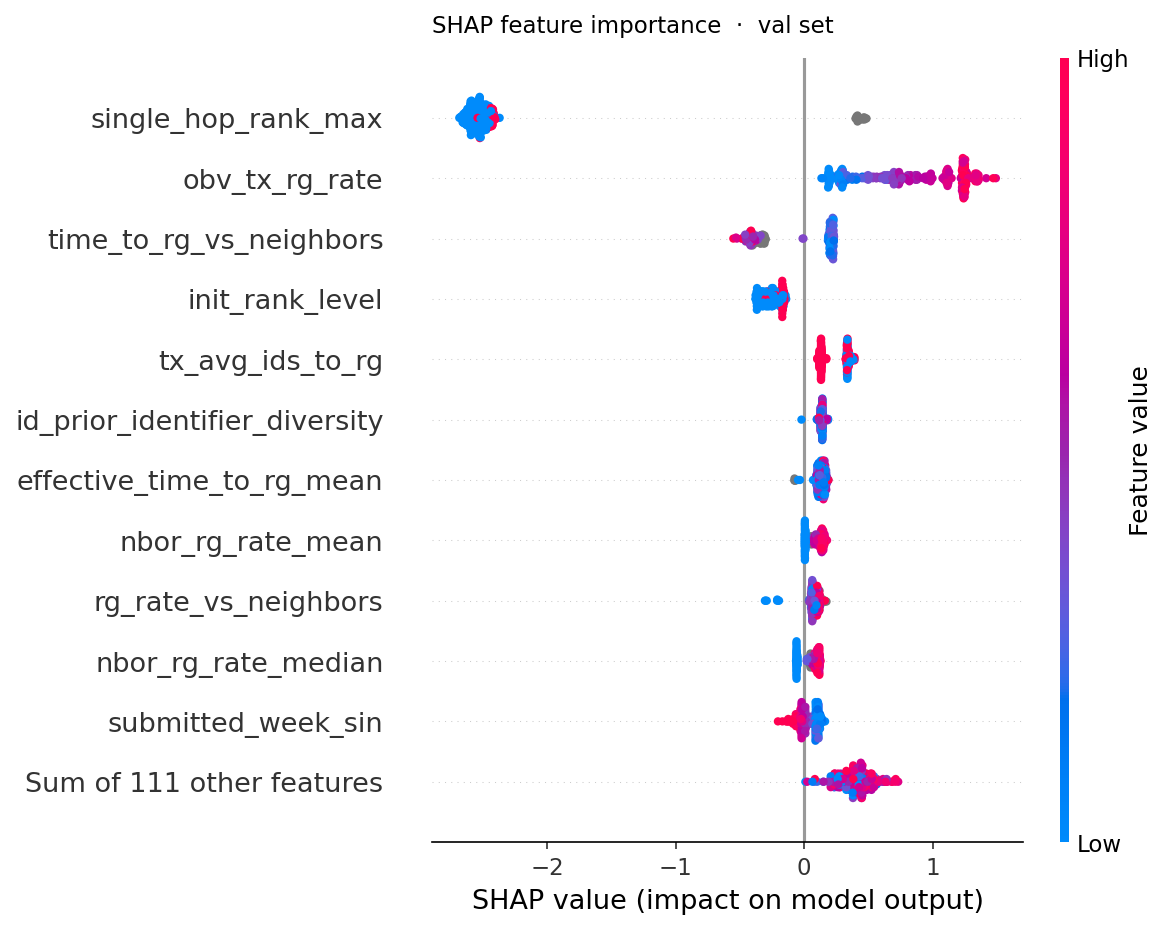
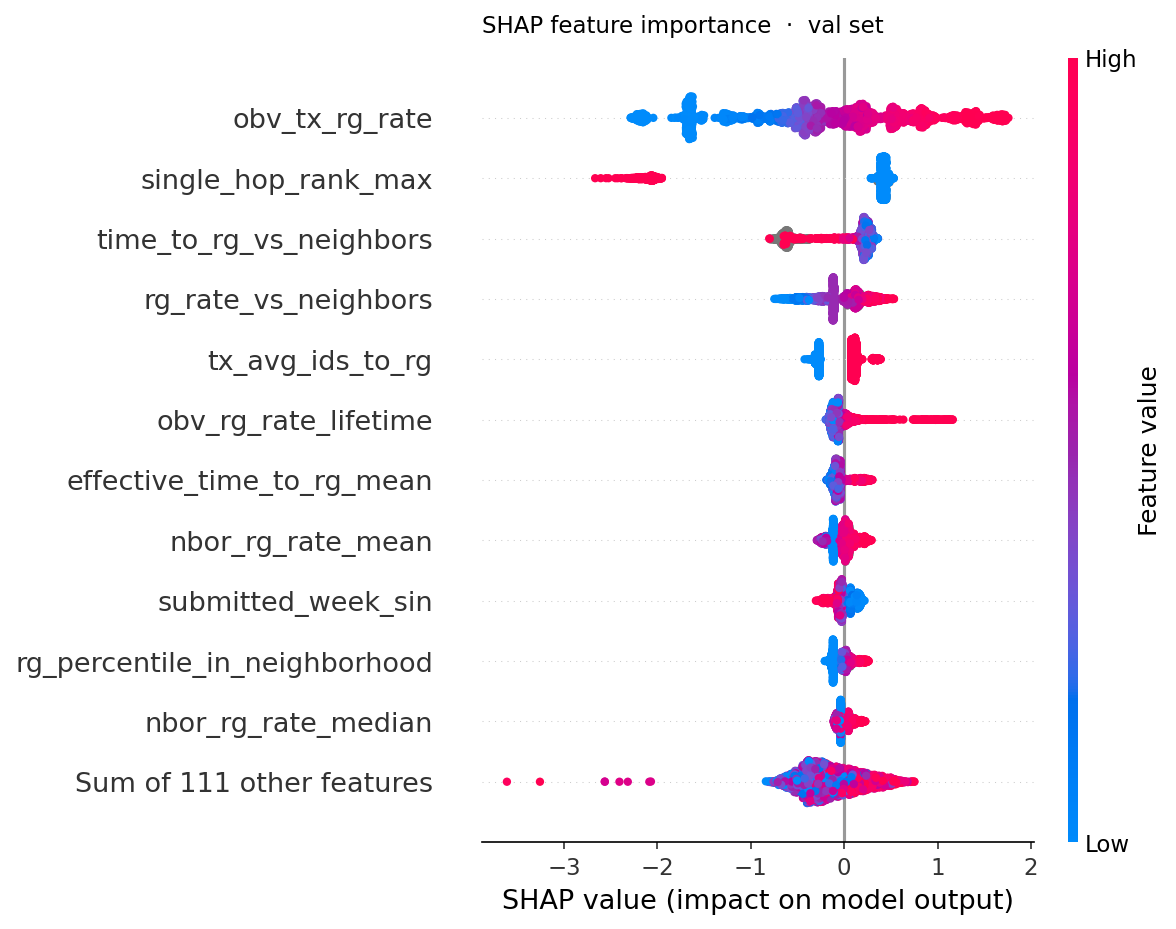
readme

diff --git a/README.md b/README.md
@@ -15,7 +15,7 @@
 
 iNaturalist accumulates millions of wildlife observations from citizen scientists. A subset earn **Research Grade (RG)** status — a quality threshold that makes observations scientifically usable for biodiversity research. Getting there requires community agreement from knowledgeable identifiers, but expert attention is a scarce resource.
 
-The challenge is that **most observations resolve on their own**. The community finds and confirms high-quality observations of well-documented species within days. What gets lost are observations that slip through unnoticed — unusual taxa, ambiguous photos, submissions from regions with few active identifiers, or species that require specialist knowledge to confirm.
+The challenge is that **most observations resolve on their own**. The community finds and confirms high-quality observations of well-documented species within days. What gets lost are observations that slip through unnoticed — unusual taxa, ambiguous photos, or species that require specialist knowledge to confirm.
 
 This project builds a **probabilistic ranking system** that scores each open "Needs ID" observation on its likelihood of reaching Research Grade, enabling triage of expert review queues toward observations with real potential that the community has not yet engaged with.
 
@@ -46,16 +46,22 @@ Extending the window to 365 days captures 93.6% of eventual-RG observations — 
 
 ## What the Model Actually Learns
 
-The model's predictive signal decomposes into three independently meaningful dimensions, confirmed by SHAP importance analysis:
+The model's predictive signal organises into three clusters, confirmed by SHAP importance analysis on the held-out test set.
 
-**1 — Who observed it**
-Observer reputation is the single strongest signal. An observer's historical Research Grade rate for a given taxon (`obv_tx_rg_rate`, SHAP rank #1), their lifetime RG rate, tenure, and account-level behavioural signals (photo count habits, description rate, use of mobile vs. desktop) all encode whether this observer reliably produces confirmable observations.
+**1 — Observer-taxon history**
+The single strongest predictor is how this observer historically performs within this taxon group. `obv_tx_rg_rate` (SHAP rank #1, mean |SHAP| = 0.745) — the observer's Bayesian-shrunk RG rate within this specific taxon, with the prior drawn from the taxon's own community-wide RG rate — and `obv_rg_rate_lifetime` (rank #6, 0.106) together signal whether this person reliably produces confirmable observations. An observer with a strong track record in Poaceae is a meaningfully stronger prior than one submitting their first grass identification.
 
-**2 — What was observed**
-Taxon identifiability drives the second cluster of signal. The confusion graph neighbourhood rank (`tx_conf_nbrhd_rank_min`, SHAP rank #2) captures how distinguishable this species is within its cluster of visually similar taxa. Static taxon difficulty aggregates — how long this family historically takes to reach RG, how many identifications are typically required, how much the lag varies — capture structurally difficult groups like *Carex* or *Asteraceae* that resist rapid community confirmation regardless of observation quality.
+**2 — Confusion graph neighbourhood**
+Six of the top eleven features come from the species confusion graph, splitting into two sub-signals:
 
-**3 — What the community has already signalled**
-Early identification dynamics carry real information even in the not-RG-at-day-7 population. The taxon confusion rate relative to neighbourhood peers (`tx_conf_rate_vs_neighbors`), identification reciprocity, and whether the first identifier agreed with the submitted taxon all encode the community's implicit confidence in the observation.
+*Static topology:* `single_hop_rank_max` (rank #2, 0.721) — single_hop_rank_max — the maximum taxonomic rank level of any confusion neighbor in the focal species' confusion graph (higher = more distantly related confused species)
+
+*Dynamic neighbourhood rates* (computed at the train cutoff, point-in-time): `time_to_rg_vs_neighbors` (rank #3, 0.324), `rg_rate_vs_neighbors` (rank #4, 0.210), `nbor_rg_rate_mean` (#8, 0.094), `rg_percentile_in_neighborhood` (#10, 0.074), `nbor_rg_rate_median` (#11, 0.067) — how this taxon's resolution dynamics compare to its confusion peers. A species that resolves faster and at a higher rate than its neighbourhood is meaningfully easier to confirm. Together, these five dynamic features rival the top static topology feature in aggregate SHAP weight.
+
+**3 — Taxon difficulty and identifiability**
+Static aggregates capture structurally hard groups independently of the confusion graph. `tx_avg_ids_to_rg` (rank #5, 0.157) and `effective_time_to_rg_mean` (rank #7, 0.096) measure how many identifications a taxon typically requires and how long resolution takes — independent signals that together identify specialist-dependent families. The hierarchical RG rate fallback chain (`tx_genus_rg_rate` #12, `tx_family_rg_rate` #17, and popularity ranks #18, #20) provides coverage for taxa with limited per-species history.
+
+Community signals are present but weaker than the model framing might suggest: `trailing_community_rg_rate_90d` (rank #13, 0.058) and initial submission taxonomy specificity (`init_rank_level`, rank #14, 0.056) contribute meaningful but secondary signal. The day-7 population filter has already selected against observations with clear early community engagement; what remains is genuinely ambiguous, and the community signals available at day 7 carry limited discriminating power for this population.
 
 ---
 
@@ -79,12 +85,16 @@ P(RG) > 0.70    →  High-confidence candidates: likely to receive community con
 
 The model ranks all open observations and outputs a priority score. Threshold boundaries are configurable deployment parameters — the model scores the full population; the actionable zone is a queue management decision, not a hard filter.
 
-### Operating Point (v0.2 — uncalibrated, val set)
+### Operating Point (v0.2 — uncalibrated, test set)
 
-The triage threshold is selected to prioritise recall — missing a recoverable observation is costlier than occasionally surfacing a borderline case. The current operating point targets:
+The precision-recall curve is steep at this positive rate — a property of the class imbalance, not a model flaw. Two meaningful operating points emerge:
 
-- **Recall**: ~90% of eventual-RG observations in the not-RG-at-day-7 population surfaced
-- **Precision**: ~60% of routed observations are confirmed RG within the label window
+| Mode | Recall | Precision | Use case |
+|---|---|---|---|
+| **High-recall** | 90% | 50% | Surface nearly all recoverable observations; accept that 1 in 2 routed observations won't resolve within the label window |
+| **Balanced** | 75% | 60% | Tighter queue for time-constrained reviewers; sacrifices 15% of recoverable observations for a meaningfully higher-confidence list |
+
+Neither threshold is objectively better — the right choice depends on expert queue capacity. The 15% recall cost of moving from 50% to 60% precision is significant and should inform deployment decisions. Post-calibration in v0.3, thresholds will be interpretable as literal probabilities, enabling operators to set a principled precision floor relative to their review bandwidth.
 
 > ⚠ *LightGBM's raw probabilities are systematically underconfident — the model's predicted 0.5 corresponds to a true positive rate closer to 0.44. Probability calibration (Platt scaling) is part of the v0.3 serving layer. Until then, threshold values should not be interpreted as literal probabilities. Ranking metrics (PR-AUC, Lift@K) are calibration-independent and are the primary evaluation signal in v0.2.*
 
@@ -93,6 +103,8 @@ The triage threshold is selected to prioritise recall — missing a recoverable 
 ## Model Performance
 
 **Ranking metrics — held-out test set (n = 27,474 observations, positive rate: 28.2%)**
+
+> The final model is retrained on the combined train + val sets before test evaluation. HP search and feature selection are performed on val; the test set is used once for terminal reporting only.
 
 | Top K% reviewed | n reviewed | Recall@K | Precision@K | Lift@K |
 |---|---|---|---|---|
@@ -165,7 +177,7 @@ Most ML pipelines guard against one form of leakage. This project explicitly ide
 | **Label leakage** | Scraped `quality_grade` reflects current state, not state at prediction time | RG label re-derived from windowed identification history via DuckDB table macro |
 | **Feature leakage** | Aggregating observer/taxon stats across the full dataset contaminates past observations with future signal | All window functions bounded to `created_at` |
 | **Split leakage** | Shuffling within temporal partitions destroys gap buffer integrity | Hard date-range boundaries from `SplitConfig`; val/test rows ordered by `created_at`, never shuffled |
-| **CV split leakage** | Standard K-fold with shuffling violates temporal structure, producing optimistically biased estimates | Custom `ExpandingWindowCvSplit(BaseCrossValidator)` — equal-chunk expanding window, sklearn-compatible, with `gap_size` hook |
+| **CV split leakage** | Standard K-fold with shuffling violates temporal structure, producing optimistically biased estimates | Custom `ExpandingWindowCvSplit(BaseCrossValidator)` — equal-chunk expanding window, sklearn-compatible; gap expressed as `timedelta` applied to the training tail boundary|
 
 ### 2. Research Grade — a two-stage label re-derivation
 
@@ -200,12 +212,20 @@ These aggregates specifically capture structurally difficult groups where commun
 
 ### 4. Species confusion graph features
 
-Visually similar species create systematic misidentification patterns. The confusion graph, built with DuckPGQ, encodes:
+Visually similar species create systematic misidentification patterns. The confusion graph, built with DuckPGQ, contributes two distinct feature families:
 
-- **Neighbourhood difficulty**: how hard is the local species cluster to disambiguate?
-- **Asymmetric sink flag**: is this taxon disproportionately the *recipient* of misidentifications from visually similar species?
-- **Focal taxon rank within neighbourhood**: where does this species sit in terms of identifier confidence relative to its confusion cluster?
-- **2-hop graph metrics**: clustering coefficient and graph size capturing the broader confusion neighbourhood
+**Static graph topology** (computed once from the full graph structure):
+- **Neighbourhood difficulty**: aggregate RG rate and identifier confidence across the local species cluster
+- **Asymmetric sink flag**: whether this taxon is disproportionately the *recipient* of misidentifications from visually similar species
+- **Focal taxon rank within neighbourhood** (`single_hop_rank_max`): where this species sits relative to its confusion peers in terms of identifier confidence — SHAP rank #2 overall
+- **2-hop topology metrics**: expansion rate, clustering coefficient, and connected component size capturing the broader misidentification network
+
+**Dynamic confusion rates** (computed as windowed aggregates at the train cutoff, point-in-time):
+- `time_to_rg_vs_neighbors`: how this taxon's resolution speed compares to its confusion neighbours — SHAP rank #3
+- `rg_rate_vs_neighbors`: relative RG rate within the confusion cluster — SHAP rank #4
+- Neighbour RG rate distributions (`nbor_rg_rate_mean`, `nbor_rg_rate_median`) and focal taxon percentile rank within the neighbourhood
+
+The dynamic features outperform static topology on most metrics because they encode current identifier community behaviour rather than graph structure alone.
 
 ### 5. Protocol-based async API client
 
@@ -249,11 +269,12 @@ All feature transforms are expressed as `.sql` files using DuckDB window functio
 | **Observer history** | Historical RG rate (actual vs. expected), obs count, account tenure, taxon diversity, observer reputation rank |
 | **Observation documentation** | Photo count, average photo count, presence of notes, coordinate uncertainty, submission lag (observed → created) |
 | **Taxon context** | Taxon rank, RG rate with Bayesian shrinkage and hierarchical fallback, taxon popularity rank |
-| **Static taxon difficulty** | Time-to-RG mean/std, lag distributions at species/genus/family, IDs required for RG, lag deviation from taxon norm |
+| **Static taxon difficulty** | Time-to-RG mean/std, lag distributions at species/genus/family, IDs required for RG, identifier specialist concentration |
 | **Identification dynamics** | IDs received, agreement rate, identifier diversity, ID velocity, reciprocity ratio, maverick count |
-| **Confusion graph** | Neighbourhood difficulty, sink-species flag, focal taxon rank in cluster, 2-hop clustering coefficient |
+| **Confusion graph — static topology** | Neighbourhood size, sink-species asymmetry flag, focal taxon rank in cluster (`single_hop_rank_max`), 2-hop expansion rate and clustering coefficient |
+| **Confusion graph — dynamic rates** | Neighbour RG rate mean/median, `time_to_rg_vs_neighbors`, `rg_rate_vs_neighbors`, focal taxon percentile in neighbourhood — all computed at train cutoff |
 | **Temporal / phenological** | Submitted week (sin/cos), observed week (sin/cos), submission pressure, activity at phenological peak, months from peak phenology |
-| **Community consensus** | Community taxon rank, first-ID agreement, pct IDs refining at window, pct IDs agreeing at window |
+| **Community** | Trailing community RG rate over 90-day window (`trailing_community_rg_rate_90d`), community observation count in window |
 
 ---
 
@@ -264,7 +285,7 @@ All feature transforms are expressed as `.sql` files using DuckDB window functio
 | Storage & transforms | DuckDB (SQL-first, no ORM) + DuckPGQ |
 | Pipeline composition | scikit-learn `Pipeline` |
 | Model | LightGBM |
-| Hyperparameter search | Optuna (TPE sampler, MedianPruner, fANOVA importance logged to MLflow) |
+| Hyperparameter search | Optuna (TPE sampler, MedianPruner, fANOVA importance logged to MLflow) + Optuna Dashboard |
 | Experiment tracking | MLflow (params, metrics, artifacts, model registry) |
 | Explainability | SHAP (global importance, beeswarm plots, error-bucket delta analysis) |
 | Data versioning | DVC |
@@ -354,13 +375,9 @@ Splits use hard date-range boundaries derived from a `SplitConfig` dataclass anc
   ~55%                  ~17%            ~27%
 ```
 
-**Positive rate drift across splits:** train ~47% → val ~34% → test ~29%. This is a meaningful shift, not a sign of overfitting, and it has two compounding causes:
+**Positive rate drift across splits:** train ~47% → val ~34% → test ~29%. This is a genuine distributional shift, not a sign of overfitting. The dataset was scraped on March 3, 2026, and all observations required a completed 365-day label window before receiving a label — so the drift cannot be attributed to label maturation. What it reflects is platform-level change: iNaturalist's observation volume has grown faster than identifier throughput, meaning recent cohorts are structurally harder to resolve. The model is generalising across this shift, not correcting for it.
 
-1. **Label-window maturation:** Training observations (pre-2023) have had more time to accumulate identifications and settle into RG status. The 365-day label window makes older cohorts structurally richer in positives — a closed-window property, not a data error.
-
-2. **Platform-level distributional shift:** The iNaturalist community's identification throughput is growing more slowly than observation volume. Recent cohorts have structurally lower RG rates because the identifier community can resolve a smaller fraction of incoming observations. This is a real environmental trend the model must generalise across.
-
-A practical consequence: Optuna's CV objective is evaluated on folds drawn entirely from the training partition (~47% positive rate), while the model is ultimately deployed against distributions closer to 29%. Hyperparameters tuned on CV may be slightly overfit to the richer-positive training world. This is documented as a known limitation; correcting it would require either resampling to match test-time positive rates (distorting the temporal structure) or accepting the mismatch.
+A practical consequence: Optuna's CV objective is evaluated on training-period folds (~47% positive rate), while the model is ultimately evaluated against a distribution near 29%. Hyperparameters tuned on CV may be slightly overfit to the richer-positive training world. This is a known limitation without a clean fix that preserves temporal split integrity.
 
 ---
 
@@ -430,15 +447,18 @@ inat_pipeline/
 
 ### ✅ v0.2 — Extended features and production model
 - scikit-learn Pipeline with registry pattern
-- LightGBM + Optuna (TPE + MedianPruner) + MLflow experiment tracking
+- LightGBM + Optuna (TPE + MedianPruner) + MLflow experiment tracking + Optuna Dashboard
 - SHAP explainability — global importance and beeswarm plots
 - Windowed community taxon and RG label re-derivation (DuckDB table macro)
 - Bayesian shrinkage for taxon RG rates with hierarchical fallback
-- Species confusion graph features via DuckPGQ
-- Static taxon difficulty aggregates (time-to-RG, lag distributions, IDs to RG)
+- Static confusion graph topology features via DuckPGQ (neighbourhood rank, sink asymmetry, 2-hop expansion, clustering coefficient)
+- Dynamic confusion graph features computed at train cutoff (neighbour RG rates, `time_to_rg_vs_neighbors`, `rg_rate_vs_neighbors`, focal taxon percentile)
+- Static taxon difficulty aggregates (time-to-RG, lag distributions, IDs to RG, identifier specialist concentration)
 - Temporal and phenological features
-- Custom `ExpandingWindowCvSplit` for temporally-safe cross-validation
+- Community trailing RG rate features (`trailing_community_rg_rate_90d`, community window count)
+- Custom `ExpandingWindowCvSplit` with `pd.Timedelta` gap for temporally-safe cross-validation
 - Population filter: model scoped to observations not-RG at day 7
+- Final model retrained on train + val before test evaluation
 - Primary metric: Average Precision (PR-AUC) — calibration-independent, directly reflects ranking quality at low recall thresholds
 - DVC for data versioning
 
@@ -463,12 +483,11 @@ v0.4 applies a structured SHAP delta analysis across error buckets:
 | Correct / uncertain | Model hedges but is right — which features help resolve ambiguity? |
 | Incorrect / uncertain | Model hedges and is wrong — where is signal absent or misleading? |
 
-Comparing mean absolute SHAP values **and feature value distributions** across these buckets distinguishes absence (feature is missing or near-zero) from misfiring (feature is present but pushes the wrong direction). Preliminary analysis suggests that uncertain-zone errors correlate with thin community consensus signals (`pct_ids_agree_at_window`, `community_taxon_rank`) — pointing toward cold-start uncertainty as the primary failure driver.
+Comparing mean absolute SHAP values **and feature value distributions** across these buckets distinguishes absence (feature is missing or near-zero) from misfiring (feature is present but pushes the wrong direction). Preliminary analysis suggests that uncertain-zone errors correlate with thin observer-taxon history and sparse confusion neighbourhood signal — pointing toward cold-start uncertainty as the primary failure driver.
 
 Planned work:
 - Complete EDA by feature × error bucket — feature value distributions per bucket, not just SHAP deltas
-- Complementary species confusion graph features: PageRank / eigenvector centrality, 2-hop expansion rate, hidden confusion rate (confusion edges with no observed misidentification events)
-- Dynamic confusion features computed at train cutoff (confusion neighbourhood RG rates as windowed aggregates rather than static graph topology)
+- Complementary confusion graph features: PageRank / eigenvector centrality, hidden confusion rate (confusion edges with no observed misidentification events)
 - Geographic range signal (is this observation outside the taxon's typical range?)
 - AWS S3 ingestion source migration to facilitate scope expansion beyond Québec
 - **Two-model routing architecture**: route observations at inference time on `has_any_id` — a discoverability model (no-ID population, current scope) and a resolution model (has-ID population, disputed/specialist cases). The routing gate is a single binary feature; both models share the same pipeline and serving infrastructure. Requires ~10× current has-ID training volume to be viable — addressable by expanding scope beyond Québec.
@@ -480,13 +499,13 @@ Planned work:
 - Currently scoped to **Plantae** observations in **Québec**
 - Observer cold-start (accounts with < 20 observations) handled via precomputed fallback stats in v0.3
 - Probability scores are uncalibrated pre-v0.3; ranking metrics are the primary evaluation signal in v0.2
-- The CV objective is evaluated on training-period folds (~47% positive rate); the model is tested against a distribution at ~29% — see [Split Strategy](#split-strategy) for detail on the CV/deployment positive rate mismatch
+- The CV objective is evaluated on training-period folds (~47% positive rate); the model is tested against a distribution at ~29% — see [Split Strategy](#split-strategy) for detail. This reflects platform-level distributional shift, not label maturation
 
 **Known leakage (accepted)**
 
 | Feature | Leakage type | Severity | Notes |
 |---|---|---|---|
-| `taxon_avg_ids_to_rg` | Uses final scraped ID count rather than point-in-time count | Low | Attenuated by `1 PRECEDING` window boundary and front-loaded iNaturalist ID activity patterns |
+| `taxon_avg_ids_to_rg` | Taxon-level aggregate computed from training observations using their 365-day label window outcomes — not strictly the point-in-time ID count at the score window | Low | Historical average for the taxon, not the current observation's future ID count; taxon-level aggregation attenuates per-observation bias |
 
 **Population scope — discovery vs. resolution**
 
